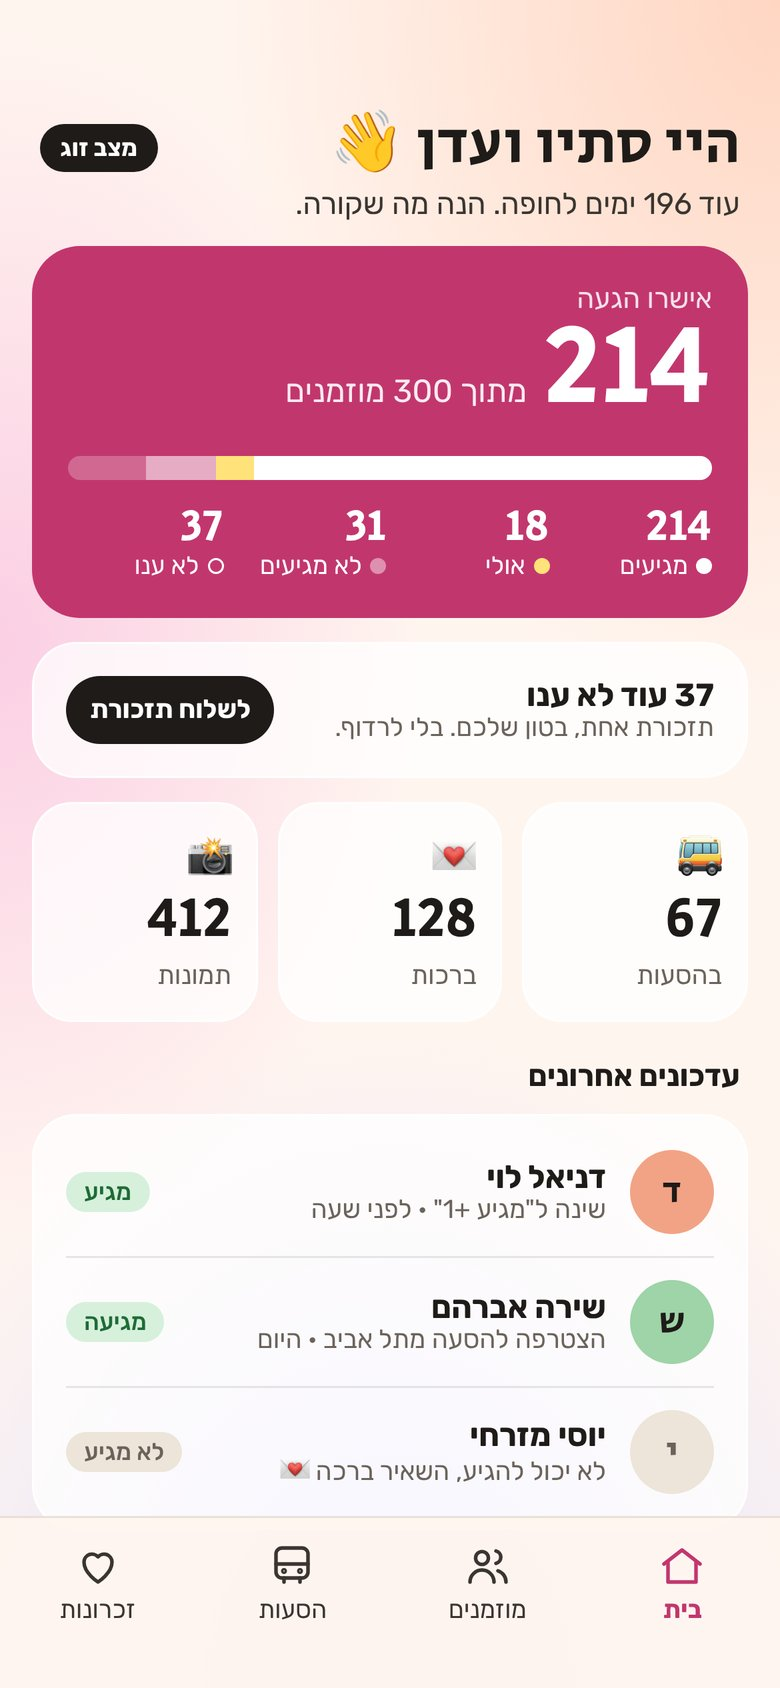
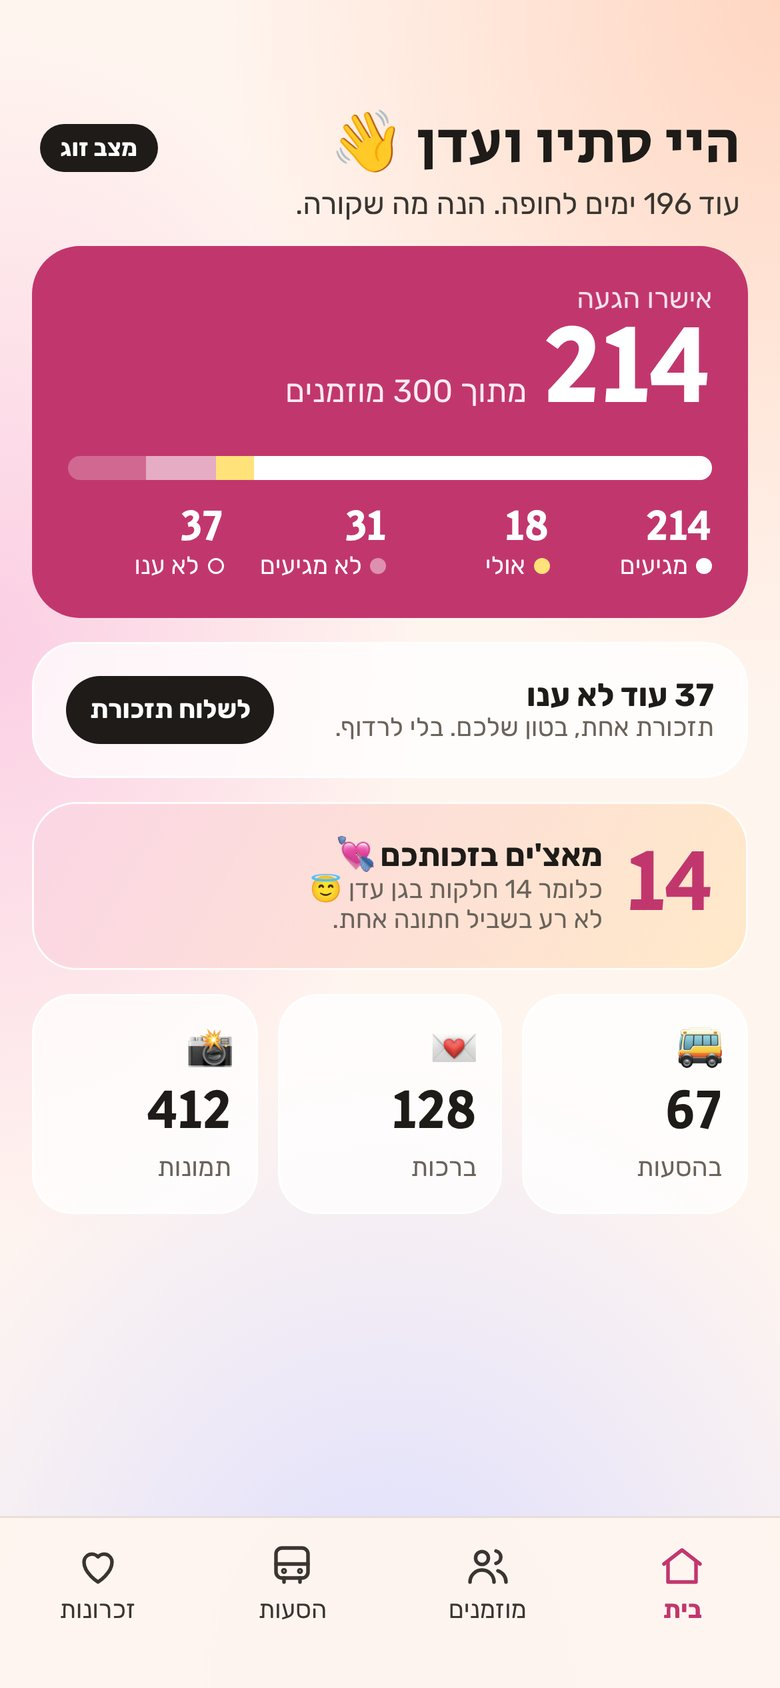
Getting: matches on the couple's home
Claude-Session: https://claude.ai/code/session_01CtJMhMmNPj9aGCH1E7C3GP

diff --git a/getting.html b/getting.html
@@ -272,11 +272,11 @@ footer{padding:40px var(--pad) 56px;max-width:1240px;margin:0 auto;display:flex;
   <div class="eyebrow">The couple's side</div>
   <h2>Everything the couple needs, <em>in one place</em></h2>
   <div class="body" style="margin-top:18px">
-   <p>Every answer a guest gives lands on the couple's side: who's coming, who still hasn't answered, how many seats each shuttle needs, and every blessing and photo. Instead of spreadsheets, calls and WhatsApp threads, the couple sees it all live and sends one reminder in their own tone.</p>
+   <p>Every answer a guest gives lands on the couple's side: who's coming, who still hasn't answered, how many seats each shuttle needs, every blessing and photo, and how many matches happened thanks to them. Instead of spreadsheets, calls and WhatsApp threads, the couple sees it all live and sends one reminder in their own tone.</p>
    <p class="note" style="font-family:var(--mono);font-size:12px;color:var(--muted)">Concept for the next version. The couple's side isn't built in the live app yet.</p>
   </div>
   <div class="flow f4">
-   <figure><div class="phone"><img src="media/getting/c-home.jpg" alt="Couple dashboard"></div><figcaption><b>Home</b>RSVP status at a glance</figcaption></figure>
+   <figure><div class="phone"><img src="media/getting/c-home.jpg" alt="Couple dashboard"></div><figcaption><b>Home</b>RSVP status and matches made</figcaption></figure>
    <figure><div class="phone"><img src="media/getting/c-guests.jpg" alt="Guest list"></div><figcaption><b>Guests</b>Filter and nudge who hasn't answered</figcaption></figure>
    <figure><div class="phone"><img src="media/getting/c-shuttles.jpg" alt="Shuttles"></div><figcaption><b>Shuttles</b>Seats per bus, pickup details</figcaption></figure>
    <figure><div class="phone"><img src="media/getting/c-memories.jpg" alt="Blessings and photos"></div><figcaption><b>Memories</b>Blessings live on screen, all photos</figcaption></figure>
